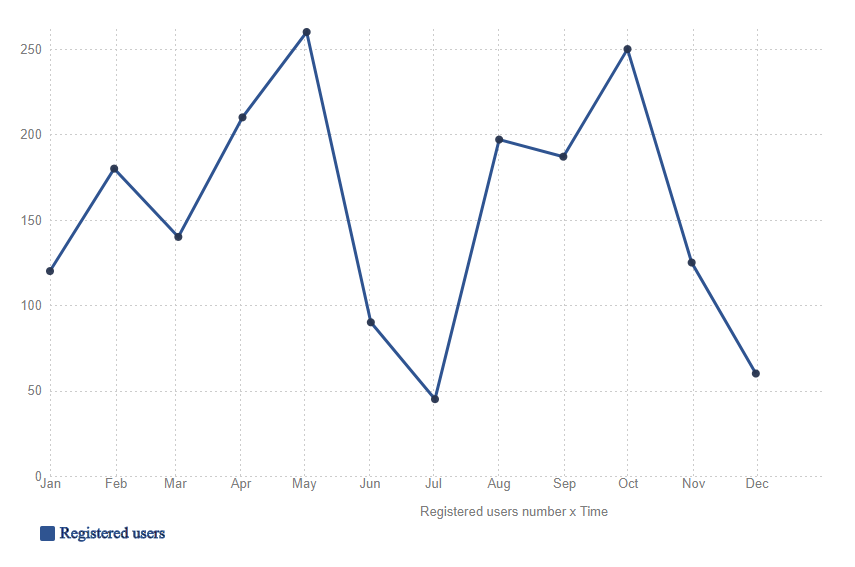
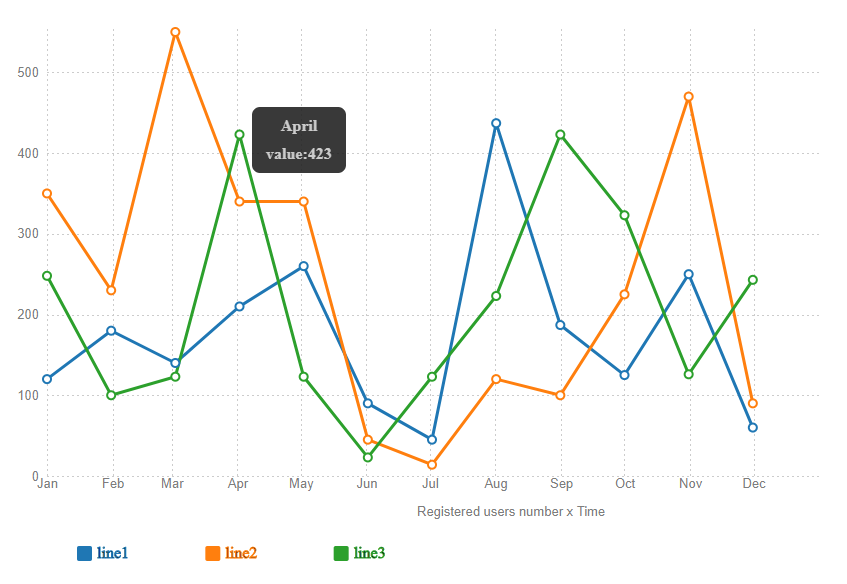
bug fix

diff --git a/d3-alvaro-upwork/scripts/d3script.js b/d3-alvaro-upwork/scripts/d3script.js
@@ -38,6 +38,35 @@ function renderChart(params) {
       calc.legendHeigh = calc.chartHeight * 0.2;
       calc.lineChartHeight = calc.chartHeight * 0.8;
 
+      var t = d3.transition()
+            .duration(attrs.animationSpeed)
+            .ease(d3.easeLinear)
+            .on("start", function(d){ console.log("transiton start") })
+            .on("end", function(d){ 
+              console.log("transiton ended");
+              
+              container.selectAll(".dot")
+                       .transition(200)
+                       .ease(d3.easeLinear)
+                       .attr("opacity", 1);
+              
+            });
+
+      var line = d3.line()
+                  .x(function(d, i) { return x(i); })
+                  .y(function(d) { return y(d.value); });
+
+      // ############ scales ##############
+      var xLabels = d3.scaleTime().domain([new Date(2018, 0, 1), new Date(2018, 11, 31)]).range([0, calc.chartWidth - attrs.axisLeftWidth]);
+      var x = d3.scaleLinear().range([attrs.axisLeftWidth, calc.chartWidth]).domain([0, attrs.data[0].length]),
+          y = d3.scaleLinear().range([calc.lineChartHeight - attrs.axisBottomHeight, 0]).domain([0, d3.max(attrs.data, function(d){
+        return d3.max(d, function(x){
+          return +x.value;
+        });
+      })]);       
+      var color = d3.scaleOrdinal(d3.schemeCategory10).domain(attrs.data.map(d => { 
+        return d[0].name; 
+      }));
       //Drawing containers
       var container = d3.select(this);
       container.html('');
@@ -51,22 +80,7 @@ function renderChart(params) {
       var chart = svg.patternify({ tag: 'g', selector: 'chart' })
         .attr('transform', 'translate(' + (calc.chartLeftMargin) + ',' + calc.chartTopMargin + ')');
 
-      var xLabels = d3.scaleTime().domain([new Date(2018, 0, 1), new Date(2018, 11, 31)]).range([0, calc.chartWidth - attrs.axisLeftWidth]);
-      var x = d3.scaleLinear().range([attrs.axisLeftWidth, calc.chartWidth]).domain([0, attrs.data.length]),
-          y = d3.scaleLinear().range([calc.lineChartHeight - attrs.axisBottomHeight, 0]).domain([0, d3.max(attrs.data, function(d){
-        return +d.value;
-      })]);
-
-      var t = d3.transition()
-            .duration(attrs.animationSpeed)
-            .ease(d3.easeLinear)
-            .on("start", function(d){ console.log("transiton start") })
-            .on("end", function(d){ console.log("transiton end") });
-
-      var line = d3.line()
-                  .x(function(d, i) { return x(i); })
-                  .y(function(d) { return y(d.value); });
-
+      // ############# axes ##################
       var xAxis = chart.patternify({ tag: 'g', selector: 'axis axis--x' });
 
       xAxis.attr("transform", "translate(" + attrs.axisLeftWidth + "," + (calc.lineChartHeight - attrs.axisBottomHeight) + ")")
@@ -78,10 +92,17 @@ function renderChart(params) {
           .call(d3.axisLeft(y).ticks(5).tickSize(-calc.chartWidth)
           .tickPadding(8));
 
-      var path = chart.patternify({ tag: 'path', selector: 'line'})
-           .attr("d", line(attrs.data))
+      // ############### lines ############
+      var path = chart.patternify({ tag: 'path', selector: 'line', data: attrs.data})
+                      .attr("d", d => { return line(d); })
+                      .attr("stroke", (d, i) => {
+                        return color(d[0].name);
+                      })
+                      .attr("data-name", d => {
+                        return d[0].name;
+                      });
            
-      // animate
+      // animate if it is first load
       if (isFirstLoad){
 
         path.attr("stroke-dasharray", function(d){ return this.getTotalLength() })
@@ -89,7 +110,8 @@ function renderChart(params) {
         chart.selectAll(".line").transition(t)
             .attr("stroke-dashoffset", 0);
 
-        isFirstLoad = !isFirstLoad; // turn off animation 
+
+        isFirstLoad = !isFirstLoad; // turn off animation
       }
 
       var div = d3.select(".tooltip")
@@ -98,20 +120,34 @@ function renderChart(params) {
                   .style("color", attrs.tooltipTextColor)
                   .style("font-size", attrs.tooltipTextFontSize);
 
-      var fixeddot = chart.patternify({ tag: 'circle', selector: 'dot', data: attrs.data })
+      // ############## circles ###############
+      var circleData = [];
+      attrs.data.forEach(x => {
+        circleData = circleData.concat(x);
+      });
+
+      var fixeddot = chart.patternify({ tag: 'circle', selector: 'dot', data: circleData })
           .attr("r", 4)
           .attr("cx", function (d, i) {
-              return x(i);
+              return x(i % attrs.data[0].length);
           })
           .attr("cy", function (d) {
               return y(d.value);
           })
+          .attr("opacity", 0)
+          .attr("data-name", d => {
+            return d.name;
+          })
+          .style("fill", "#fff")
+          .attr("stroke", (d,i) => {
+            return color(d.name);
+          })
+          .attr("stroke-width", 2)
           .on("mouseover", function (d) {
                var circle = d3.select(this);
-               circle.attr("stroke", "#c3cfe2")
-                     .attr("r", 6)
-                     .attr("stroke-width", 3);
-
+               circle.style("fill", d => {
+                return color(d.name);
+               });
                div.transition()
                   .duration(100)
                   .style("opacity", .9);
@@ -120,15 +156,14 @@ function renderChart(params) {
                   .style("top", (d3.event.pageY - 28) + "px");  
           })
           .on("mouseout", function(){
-            
+
             div.style("opacity", 0);
 
             var circle = d3.select(this);
-               circle.attr("stroke", null)
-                     .attr("r", 4)
-                     .attr("stroke-width", 0);
+            circle.style("fill", "#fff");
 
-          });
+          })
+          ;
 
       var xAxisDescription = chart.patternify({ tag: 'text', selector: 'xAxisDescr' })
                                   .attr("x", calc.chartWidth / 2)
@@ -137,25 +172,70 @@ function renderChart(params) {
 
       // ##### legend #####
       var legend = chart.patternify({ tag: 'g', selector: 'legend' })
+                        .attr('transform', (d,i) => {
+                              return "translate("+ [0, calc.lineChartHeight + 50] +")"
+                        })
                         
 
-      var regUsers = legend.patternify({ tag: 'g', selector: 'registeredUsers'})
-                           .attr('transform', 'translate(10, 30)');
+      var legend_items = legend.patternify({ 
+                                         tag: 'g', 
+                                         selector: 'legend_item', 
+                                         data: attrs.data.map(d => { 
+                                            return d[0].name;
+                                         })
+                                       })
+                           .attr('transform', (d,i) => {
+                              return "translate("+ [x(i), 0] +")"
+                           });
 
-      regUsers.append("rect")
+      legend_items.append("rect")
               .attr("width", 15)
               .attr("height", 15)
-              .attr("x", 10)
-              .attr("y", calc.lineChartHeight)
+              .attr("x", (d, i) => {
+                  return x(i);
+              })
               .attr('rx', 2)
-              .attr("fill", "#2f5491");
+              .attr("fill", (d, i) => {
+                return color(d);
+              })
+              .attr("data-selected", "true")
+              .on("dblclick", function(d){
+                var rect = d3.select(this);
+                var isSelected = rect.attr("data-selected");
+                var paths = chart.selectAll(".line[data-name='"+ d +"']");
+                var dots = chart.selectAll(".dot[data-name='"+ d +"']");
+                console.log("path:", path);
+                if (isSelected == "true") {
+                  rect.style("opacity", 0.5);
+                  paths
+                    .attr("opacity", 0);
+                  dots
+                    .attr("opacity", 0);
+                  rect.attr("data-selected", "false");
+                }
+                else{
+                  rect.style("opacity", 1);
+                  paths
+                    .attr("opacity", 1);
+                  dots
+                    .attr("opacity", 1);
+                  rect.attr("data-selected", "true");
+                }
+                
+              });
 
-      regUsers.append("text")
-              .attr("x", 30)
-              .attr("y", calc.lineChartHeight + 12)
-              .attr("stroke", "#2f5491")
+      legend_items.append("text")
+              .attr("x", (d, i) => {
+                  return x(i) + 20;
+              })
+              .attr("stroke", (d, i) => {
+                return color(d);
+              })
               .attr("stroke-width", 0.9)
-              .text("Registered users");
+              .text(d => {
+                return d;
+              })
+              .attr("transform", "translate("+[0,12]+")");
 
       //RESPONSIVENESS
        d3.select(window).on('resize.' + attrs.id, function () {
@@ -172,6 +252,7 @@ function renderChart(params) {
       updateData = function () {
 
       }
+
       //#########################################  UTIL FUNCS ##################################
 
       function debug() {
@@ -231,6 +312,27 @@ function renderChart(params) {
     };
   });
 
+  // data conversion
+  function convertData(data) {
+      var arr = [];
+
+      Object.keys(data[0]).forEach(x => {
+          if (x != "month") {
+              var tempArr = [];
+              data.forEach(d => {
+                  tempArr.push({
+                      month: d.month,
+                      value: d[x],
+                      name: x
+                  });
+              });
+              arr.push(tempArr);
+          }
+      });
+
+      return arr;
+  }
+
   //Set attrs as property
   main.attrs = attrs;
 
@@ -247,7 +349,7 @@ function renderChart(params) {
   //Exposed update functions
   main.data = function (value) {
     if (!arguments.length) return attrs.data;
-    attrs.data = value;
+    attrs.data = convertData(value);
     if (typeof updateData === 'function') {
       updateData();
     }

diff --git a/d3-alvaro-upwork/index.html b/d3-alvaro-upwork/index.html
@@ -54,13 +54,10 @@
           }
 
           .line {
-            stroke: #2f5491;
             stroke-width: 3px;
             fill: none;
           }
-        circle {
-            fill: rgba(40, 53, 79, .95);
-        }
+        
         #myGraph{
             position: relative;
             width: 60%;
@@ -80,6 +77,13 @@
                 margin: auto;
             }
         }
+        .legend_item text, .xAxisDescr, .axis text {
+            cursor: default;
+            -webkit-user-select: none;
+            -moz-user-select: none;
+            -ms-user-select: none;
+            user-select: none;
+        }
     </style>
 </head>
 
@@ -95,7 +99,14 @@
 
     <script>
 
-        d3.json("data/data.json", function(data){
+        d3.json("data/data.json", function(error, data){
+
+            // error check
+            if (error) {
+                console.error('Error getting or parsing the data.');
+                throw error;
+            }
+            // draw chart
             var width = document.getElementById('myGraph').getBoundingClientRect().width;
             var chart = renderChart()
                 .svgHeight(600)
@@ -107,8 +118,7 @@
 
         });
           
-
-
+        
     </script>
 
 
